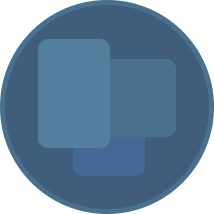
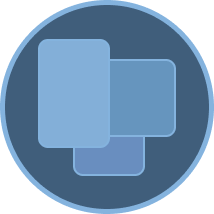
Sidebar functionality working

diff --git a/src/App.jsx b/src/App.jsx
@@ -2,11 +2,13 @@ import { useState, useEffect } from 'react'
 import aboutme from './assets/aboutme.png'
 import moon from './assets/dark.png'
 import dropdown from './assets/dropdown.png'
+import dropdownup from './assets/dropdownup.png'
 import projects from './assets/projects.png'
 import socials from './assets/socials.png'
 import darkaboutme from './assets/darkaboutme.png'
 import darkmoon from './assets/darksun.png'
 import darkdropdown from './assets/darkdropdown.png'
+import darkdropdownup from './assets/darkdropdownup.png'
 import darkprojects from './assets/darkprojects.png'
 import darksocials from './assets/darksocials.png'
 import './App.css'
@@ -14,6 +16,7 @@ import './App.css'
 function App() {
   const [pageState, setPageState] = useState(0)
   const [dark, setDark] = useState(false)
+  const [dropdownOpen, setDropdownOpen] = useState(false);
 
   useEffect(() => {
     if (dark) {
@@ -25,60 +28,54 @@ function App() {
 
   return (
     <>
-      <div className="bar-wrap">
-        <div className="bar">
-          <button className="dropdown">
-            <img src={dark ? darkdropdown : dropdown} alt="Dropdown" />
-          </button>
-          <button className="aboutme">
-            <img src={dark ? darkaboutme : aboutme} alt="About Me" />
-          </button>
-          <button className="socials">
-            <img src={dark ? darksocials : socials} alt="Socials" />
-          </button>
-          <button className="projects">
-            <img src={dark ? darkprojects : projects} alt="Projects" />
-          </button>
-          <button className="dark" onClick={() => setDark(prev => !prev)}>
-            <img src={dark ? darkmoon : moon} alt="Dark Mode" />
-          </button>
+      <div className={`app-wrapper state-${pageState}`}>
+        <div className="bar-wrap">
+          <div className={`bar ${dropdownOpen ? "dropdown-active" : ""}`}>
+            <button className="dropdown" onClick={() => setDropdownOpen(prev => !prev)}>
+              <img src={
+                dark 
+                  ? (dropdownOpen ? darkdropdownup : darkdropdown)
+                  : (dropdownOpen ? dropdownup : dropdown)
+              }
+              alt="Dropdown" />
+            </button>
+            <button className={`aboutme ${dropdownOpen ? "hidden" : ""}`} onClick={() => setPageState(2)}>
+              <img src={dark ? darkaboutme : aboutme} alt="About Me" />
+            </button>
+            <button className={`socials ${dropdownOpen ? "hidden" : ""}`} onClick={() => setPageState(3)}>
+              <img src={dark ? darksocials : socials} alt="Socials" />
+            </button>
+            <button className={`projects ${dropdownOpen ? "hidden" : ""}`} onClick={() => setPageState(4)}>
+              <img src={dark ? darkprojects : projects} alt="Projects" />
+            </button>
+            <button className={`dark ${dropdownOpen ? "hidden" : ""}`} onClick={() => setDark(prev => !prev)}>
+              <img src={dark ? darkmoon : moon} alt="Dark Mode" />
+            </button>
+          </div>
         </div>
-      </div>
-        <div className="bar-wrapper">
-          <div className="bar-design1">
+          <div className="bar-wrapper">
+            <div className="bar-design1"></div>
+            <div className="bar-circle1"></div>
+            <div className="bar-design2"></div>
+            <div className="bar-circle2"></div>
+            <div className="bar-design3"></div>
+            <div className="bar-circle3"></div>
 
-          </div>
-          <div className="bar-circle1">
-
-          </div>
-          <div className="bar-design2">
-
-          </div>
-          <div className="bar-circle2">
-
-          </div>
-          <div className="bar-design3">
-
-          </div>
-          <div className="bar-circle3">
-
-          </div>
-
-      </div>
-      <div className="app">
-        <div className="animation">
-          <div className="app">
-            <div className="loading-wrapper">
-              <div className="loading">
-
+        </div>
+        <div className="app">
+          <div className="animation">
+            <div className="app">
+              <div className="loading-wrapper">
+                <div className={`loading state-${pageState}`}>
+                </div>
               </div>
             </div>
-          </div>
 
-          <div className="circle">
+            <div className="circle">
 
+            </div>
           </div>
-        </div>
+        </div>     
       </div>
     </>
   )

diff --git a/src/App.css b/src/App.css
@@ -29,8 +29,13 @@ body {
   gap: 1vh;
   padding: 1.5vh;
   z-index:10;
-  transition: background-color 0.4s ease;
+  transition: background-color 0.4s ease, 0.2s ease-in-out, height 0.5s ease;
   box-shadow: rgba(0,0,0,0.25) -0.5vh 0.5vh 0px;
+}
+
+.bar.dropdown-active {
+  height: 8vh;
+  transition: background-color 0.4s ease, height 0.6s cubic-bezier(.57,.33,.22,.85) 0.15s;
 }
 
 .bar-design1 {
@@ -149,7 +154,13 @@ body {
 
 .bar:hover{
   transform: translateY(0) scale(1.015);
-  transition: all 0.2s ease-in-out;
+}
+
+.bar button.hidden {
+  opacity: 0;
+  transform: scale(50%);
+  pointer-events: none;
+
 }
 
 .bar button{
@@ -159,17 +170,20 @@ body {
   width: 100%;
   aspect-ratio: 1/1;
   border-radius: 100%;
-  transition: ease-in-out 0.04s;
+  transition: scale ease-in-out 0.04s;
   max-height: 8vh;
+  opacity: 1;
+  transition: opacity 0.4s ease, transform 0.7s ease;
 }
 
 .bar button:hover{
-  transform: scale(1.1);
-  
+  transform: scale(1.05);
+  transition: all 0.1s ease-in-out;
 }
 
 .bar button:active{
-  transform: scale(1.02);
+  transition: all 0.07s ease-in-out;
+  transform: scale(0.98);
   border: 2px solid var(--activebuttonborder);
   
 }
@@ -200,19 +214,19 @@ body {
 
 .loading {
   background-color: var(--circle);
-  width: 20vw;
-  height: 20vw;
-  border-radius: 100vw;
-  transition: transform 0.4s ease-out, background-color 0.4s ease;
+  width: var(--width);
+  height: var(--height);
+  border-radius: var(--border);
+  transition: width 0.4s ease, height 0.4s ease, border-radius 0.4s ease, transform 0.4s ease-out, background-color 0.4s ease;
   box-shadow: rgba(0,0,0,0.25) -0.5vh 0.5vh 0px;
 }
 
 .loading:hover{
-  transform:scale(1.1);
+  transform:scale(1.07);
 }
 
 .loading:active{
-  transform:scale(1.05);
+  transform:scale(1.03);
   transition: all 0.1s ease-out;
   background: var(--circleclick);
 
@@ -228,6 +242,7 @@ body {
 .dropdown img {
   width: 100%;
   height: 100%;
+  transform: scale(1.05)
 }
 
 .aboutme {
@@ -240,6 +255,7 @@ body {
 .aboutme img {
   width: 100%;
   height: 100%;
+  transform: scale(var(--aboutscale))
 }
 
 .socials {
@@ -252,6 +268,7 @@ body {
 .socials img {
   width: 100%;
   height: 100%;
+  transform: scale(var(--socialsscale))
 }
 
 .projects {
@@ -264,6 +281,7 @@ body {
 .projects img {
   width: 100%;
   height: 100%;
+  transform: scale(var(--projectsscale))
 }
 
 .dark {
@@ -276,7 +294,30 @@ body {
 .dark img {
   width: 100%;
   height: 100%;
+  transform: scale(1.05)
 }
+
+.app-wrapper.state-0 .aboutme img,
+.app-wrapper.state-2 .aboutme img,
+.app-wrapper.state-3 .aboutme img,
+.app-wrapper.state-4 .aboutme img {
+  transform: scale(var(--aboutscale));
+}
+
+.app-wrapper.state-0 .socials img,
+.app-wrapper.state-2 .socials img,
+.app-wrapper.state-3 .socials img,
+.app-wrapper.state-4 .socials img {
+  transform: scale(var(--socialsscale));
+}
+
+.app-wrapper.state-0 .projects img,
+.app-wrapper.state-2 .projects img,
+.app-wrapper.state-3 .projects img,
+.app-wrapper.state-4 .projects img {
+  transform: scale(var(--projectsscale));
+}
+
 @keyframes loading {
   0%   { scale: 100%; box-shadow: var(--bgcolor) -0.5vh 0.5vh 0px; }
   18%  { scale: 80%; }

diff --git a/src/index.css b/src/index.css
@@ -22,9 +22,45 @@ body.dark {
  --bardes2:#314D66;
  --bardes3:#3b5c7a;
  --buttonbgcolor:#405E7B;
- --buttonborder:#5F70A1;
+ --buttonborder:#84B3DE;
  --activebuttonborder:#7791e0;
  --circle:#3D5973;
  --circleclick:#3e5b79;
+}
+
+.app-wrapper.state-0 { 
+  --width: 25vw;
+  --height: 25vw;
+  --border: 50%;
+  --aboutscale: 1.05;
+  --socialsscale: 1.05;
+  --projectsscale: 1.05;
+}
+
+.app-wrapper.state-2 { 
+  --width: 30vw;
+  --height: 35vw;
+  --border: 8vw;
+  --aboutscale: 1.16;
+  --socialsscale: 1.05;
+  --projectsscale: 1.05;
+}
+
+.app-wrapper.state-3 { 
+  --width: 50vw;
+  --height: 24vw;
+  --border: 3vw;
+  --aboutscale: 1.05;
+  --socialsscale: 1.16;
+  --projectsscale: 1.05;
+}
+
+.app-wrapper.state-4 { 
+  --width: 55vw;
+  --height: 40vw;
+  --border: 10vw;
+  --aboutscale: 1.05;
+  --socialsscale: 1.05;
+  --projectsscale: 1.16;
 }
 
